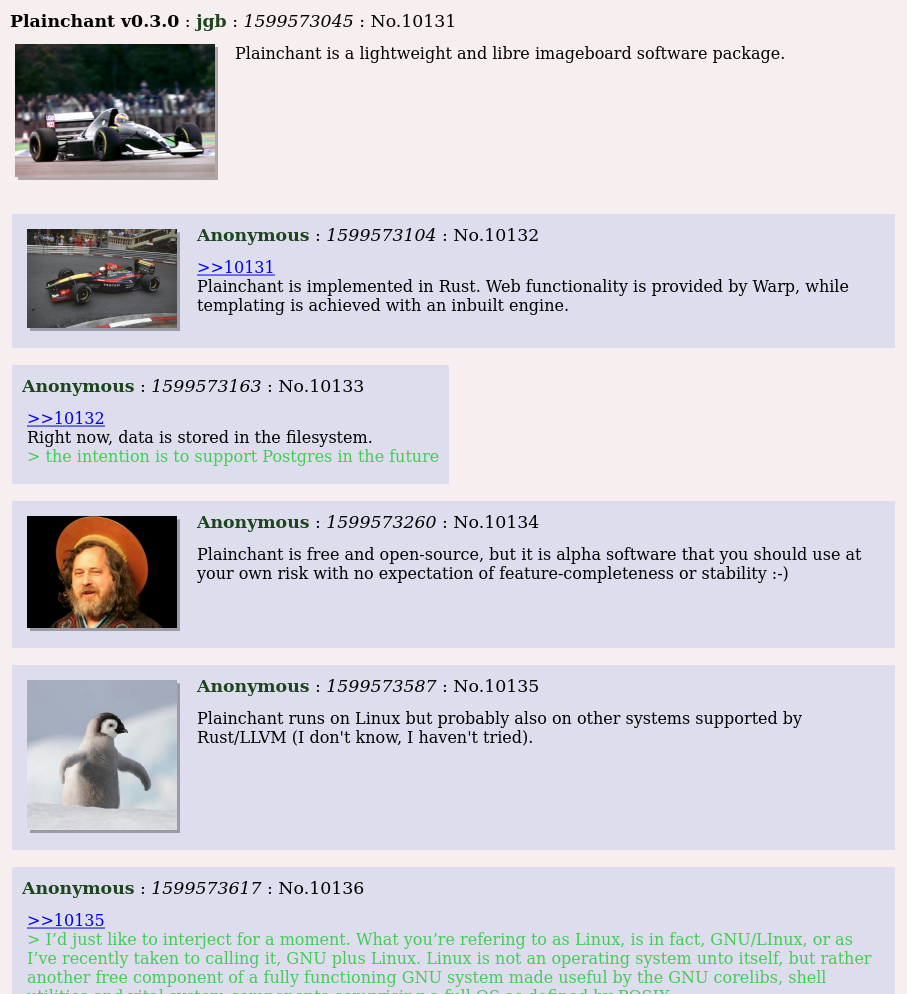
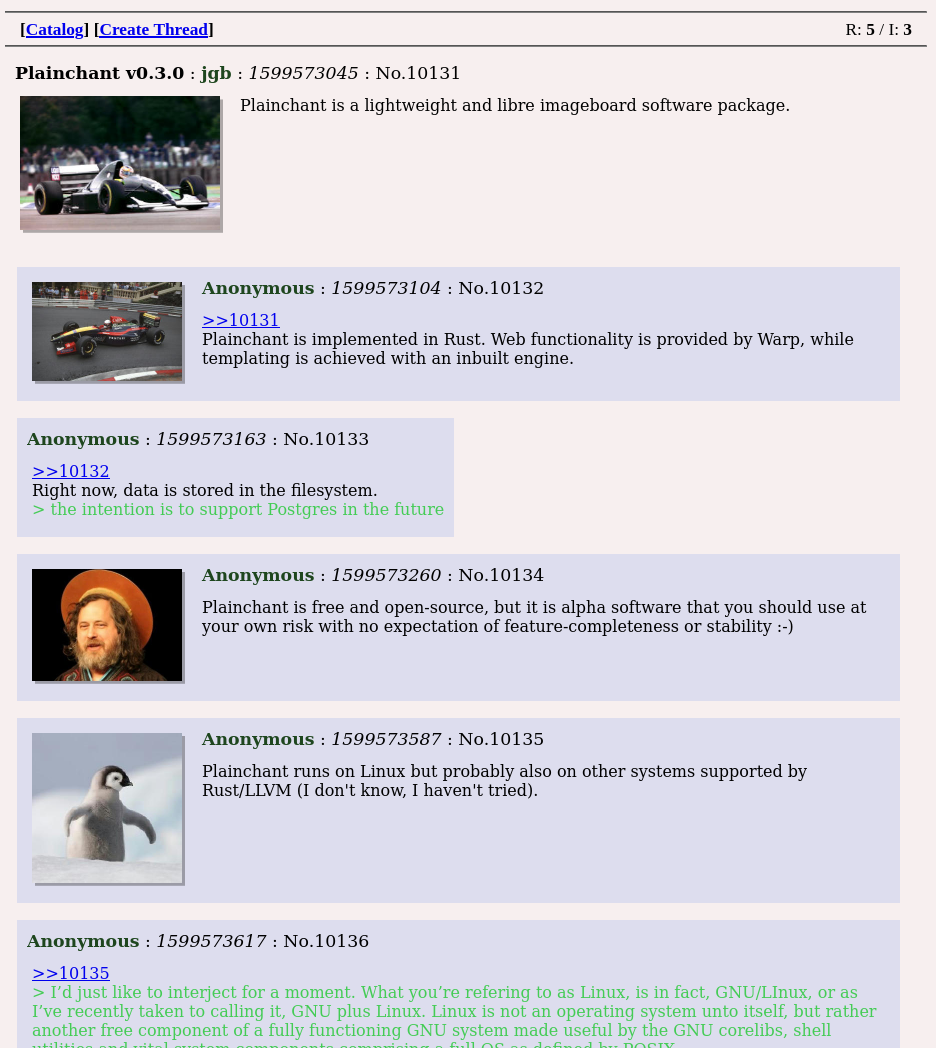
updated screenshot for v0.3.0

diff --git a/README.md b/README.md
@@ -1,6 +1,6 @@
 ## Plainchant
 
-![Demo Site Screenshot](https://github.com/jgbyrne/plainchant/blob/master/demo/screenshot.png)
+![Demo Screenshot](https://github.com/jgbyrne/plainchant/blob/master/demo/screenshot.png)
 
 Plainchant is a lightweight and libre imageboard software package.
 
